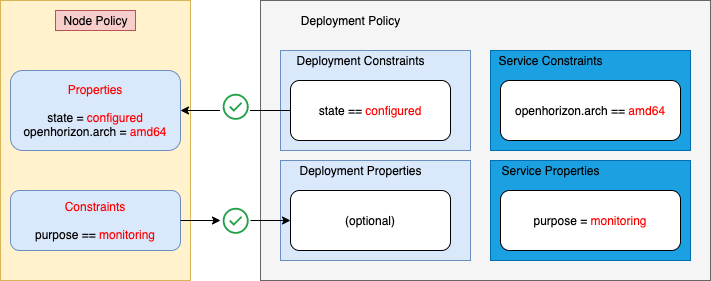
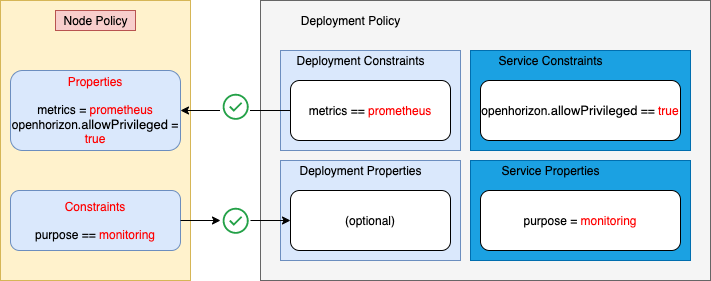
readme updates

diff --git a/README.md b/README.md
@@ -4,13 +4,16 @@ This is an example of creating and using an edge exporter service which scrapes 
 
 Based on [https://github.com/prometheus-community/json_exporter](https://github.com/prometheus-community/json_exporter)
 
-- [Preconditions for Using the JSON Exporter Service](#preconditions)
-- [Configuring the JSON Exporter Service](#configuring)
-- [Building and Publishing the JSON Exporter Service](#building)
-- [Using the JSON Exporter Service with Deployment Policy](#using-JSON-exporter)
+[1. Preconditions for Using the JSON Exporter Service](#preconditions)
+
+[2. Configuring the JSON Exporter Service](#configuring)
+
+[3. Building and Publishing the JSON Exporter Service](#building)
+
+[4. Using the JSON Exporter Service with Deployment Policy](#using-JSON-exporter)
 ![Prometheus architecture ](docs/prometheus-design.png)
 
-## <a id=preconditions></a> Preconditions for Using the JSON Exporter Service
+## <a id=preconditions></a> 1. Preconditions for Using the JSON Exporter Service
 
 If you have not done so already, you must do these steps before proceeding with the JSON Exporter service:
 
@@ -20,7 +23,7 @@ If you have not done so already, you must do these steps before proceeding with 
 
 2. Install the Horizon agent on your edge device and configure it to point to your Horizon exchange.
 
-3. As part of the infrasctucture installation process for IBM Edge Computing Manager a file called `agent-install.cfg` was created that contains the values for `HZN_ORG_ID` and the exchange and css url values. Locate this file and set those environment variables in your shell now:
+3. As part of the infrasctucture installation process for IBM Edge Application Manager a file called `agent-install.cfg` was created that contains the values for `HZN_ORG_ID` and the **exchange** and **css** url values. Locate this file and set those environment variables in your shell now:
 
 ```bash
 eval export $(cat agent-install.cfg)
@@ -43,15 +46,24 @@ hzn exchange node create -n $HZN_EXCHANGE_NODE_AUTH
 hzn exchange node confirm
 ```
 
-## <a id=configuring></a> Configuring the JSON Exporter Service
+## <a id=configuring></a> 2. Configuring the JSON Exporter Service
 
-You should complete these steps before proceeding with the JSON Exporter service:
+You should complete these steps before proceeding building the JSON Exporter service:
 
-1. List the event logs for the current or all registrations in the edge device with:
+1. Clone this git repository:
+
+```bash
+cd ~   # or wherever you want
+git clone git@github.com:jiportilla/edge_json_exporter.git
+cd ~/edge_json_exporter/
+```
+
+
+2. List the event logs for the current or all registrations in the edge device with:
 
 `hzn eventlog list -l`
 
-2. Verify is a valid JSON format, for example:
+3. Verify is a valid JSON format, for example:
 
 ```json
 {
@@ -76,7 +88,7 @@ You should complete these steps before proceeding with the JSON Exporter service
   }
 ```
 
-3. Update the provided `config.yml` file to select which JSON elements will be exposed by the JSON exporter service using JSONPath, for example for messages with **severity=info** use
+4. Optionally, update the provided `config.yml` file to define which JSON elements will be exposed by the JSON exporter service using **JSONPath**, for example for messages with **severity=info** use:
 
 ```
 - name: EventLog
@@ -93,13 +105,11 @@ You should complete these steps before proceeding with the JSON Exporter service
     timestamp: $.timestamp
 ```
 
-## <a id=building></a>Building and Publishing the JSON Exporter Service
+## <a id=building></a> 3. Building and Publishing the JSON Exporter Service
 
-1. Clone this git repository:
+1. Change directories to the local copy:
 
 ```bash
-cd ~   # or wherever you want
-git clone git@github.com:jiportilla/edge_json_exporter.git
 cd ~/edge_json_exporter/
 ```
 
@@ -115,15 +125,15 @@ eval $(hzn util configconv -f horizon/hzn.json)
 ```bash
 make build
 ```
-
-For example, when using the default values provided in this github repo [hnz.json](https://github.com/jiportilla/edge_json_exporter/blob/master/horizon/hzn.json) configuration file:
+For example, when using the default values provided in this repo [hnz.json](https://github.com/jiportilla/edge_json_exporter/blob/master/horizon/hzn.json) configuration file:
+	
 
 
 ```bash
 docker build --network="host" -t iportilla/jexporter_amd64:1.0.0 -f ./Dockerfile.amd64 .
 ```
 
-3. You are now ready to publish your edge service, so that it can be deployed to real edge nodes. Instruct Horizon to push your docker image to your registry and publish your service in the Horizon Exchange:
+3. You are now ready to publish your edge service, so that it can be deployed to edge devices. Instruct Horizon to push your docker image to your registry and publish your service in the Horizon Exchange using:
 
 ```bash
 hzn exchange service publish -f horizon/service.definition.json
@@ -132,14 +142,12 @@ hzn exchange service list
 
 See [Developing an edge service for devices](https://www-03preprod.ibm.com/support/knowledgecenter/SSFKVV_4.1/devices/developing/developing.html) for additional details.
 
-## <a id=using-JSON-exporter></a> Using the JSON Exporter Service with Deployment Policy
+## <a id=using-JSON-exporter></a> 4. Using the JSON Exporter Service with Deployment Policy
 
-The Horizon Policy mechanism offers an alternative to using Deployment Patterns. Policies provide much finer control over the deployment placement of edge services. Policies also provide a greater separation of concerns, allowing Edge Nodes owners, Service code developers, and Business owners to each independently articulate their own Policies. There are three types of Horizon Policies:
+The Horizon Policy mechanism offers an alternative to using deployment patterns. Policies provide much finer control over the deployment placement of edge services. Policies also provide a greater separation of concerns, allowing edge nodes owners, service code developers, and business owners to each independently articulate their own policies. There are three main types of Horizon Policies:
 
-
-
-1. Service Policy (may be applied to a published Service in the Exchange)
-2. Deployment Policy (which approximately corresponds to a Deployment Pattern)
+1. Service Policy (may be applied to a published service in the Exchange)
+2. Deployment Policy (which approximately corresponds to a deployment pattern)
 3. Node Policy (provided at registration time by the node owner)
 
 ### Service Policy
@@ -158,12 +166,12 @@ Like the other two Policy types, Service Policy contains a set of `properties` a
     }
   ],
   "constraints": [
-       "openhorizon.arch == amd64"
+       "openhorizon.allowPrivileged == true"
   ]
 }
 ```
 
-- Note this simple Service Policy provides one `property` **purpose=monitoring**, and it states one `constraint`. This JSON Exporter Service `constraint` is one that a Service developer might add, stating that their Service must only run on cpu architecture named **amd64**. During node registration the `openhorizon.arch` property will be set to **amd64**, so this JSON Exportert Service should be compatible with our Edge device.
+- Note this simple Service Policy provides one `property` **purpose=monitoring**, and it states one `constraint`. This JSON Exporter Service `constraint` is one that a Service developer might add, stating that their Service must only be deployed when **openhorizon.allowPrivileged** equals to **true**. After node registration the **openhorizon.allowPrivileged** property will be set to **true**, so this JSON Exportert Service should be compatible with our edge device.
 
 2. If needed, run the following commands to set the environment variables needed by the `service.policy.json` file in your shell:
 
@@ -184,10 +192,46 @@ hzn exchange service addpolicy -f policy/service.policy.json json.exporter_1.0.0
 
 ```
 
-4. View the pubished service policy attached to `json.exporter` edge service:
+4. View the pubished service policy attached to the **json.exporter** edge service:
 
 ```bash
 hzn exchange service listpolicy json.exporter_1.0.0_amd64
+```
+
+The output should look like:
+
+```json
+{
+  "properties": [
+    {
+      "name": "openhorizon.service.url",
+      "value": "json.exporter"
+    },
+    {
+      "name": "openhorizon.service.name",
+      "value": "json.exporter"
+    },
+    {
+      "name": "openhorizon.service.org",
+      "value": "mycluster"
+    },
+    {
+      "name": "openhorizon.service.version",
+      "value": "1.0.0"
+    },
+    {
+      "name": "openhorizon.service.arch",
+      "value": "amd64"
+    },
+    {
+      "name": "purpose",
+      "value": "monitoring"
+    }
+  ],
+  "constraints": [
+    "openhorizon.allowPrivileged == true"
+  ]
+}
 ```
 
 - Notice that Horizon has again automatically added some additional `properties` to your Policy. These generated property values can be used in `constraints` in Node Policies and Deployment Policies.
@@ -197,16 +241,16 @@ hzn exchange service listpolicy json.exporter_1.0.0_amd64
 
 ### Deployment Policy
 
-Deployment Policy (sometimes called Business Policy) is what ties together Edge Nodes, Published Services, and the Policies defined for each of those, making it roughly analogous to the Deployment Patterns you have previously worked with.
+Deployment policy (sometimes called Business Policy) is what ties together edge nodes, published services, and the policies defined for each of those, making it roughly analogous to the deployment patterns you have previously worked with.
 
-Deployment Policy, like the other two Policy types, contains a set of `properties` and a set of `constraints`, but it contains other things as well. For example, it explicitly identifies the Service it will cause to be deployed onto Edge Nodes if negotiation is successful, in addition to configuration variable values, performing the equivalent function to the `-f horizon/userinput.json` clause of a Deployment Pattern `hzn register ...` command. The Deployment Policy approach for configuration values is more powerful because this operation can be performed centrally (no need to connect directly to the Edge Node).
+DeploymentpPolicy, like the other two Policy types, contains a set of `properties` and a set of `constraints`, but it contains other things as well. For example, it explicitly identifies the Service it will cause to be deployed onto edge nodes if negotiation is successful, in addition to configuration variable values, performing the equivalent function to the `-f horizon/userinput.json` clause of a Deployment Pattern `hzn register ...` command. The Deployment Policy approach for configuration values is more powerful because this operation can be performed centrally (no need to connect directly to the edge node).
 
 1. Below is the file provided in  `policy/deployment.policy.json` with this example:
 
 ```json
 {
   "label": "Deployment policy for $SERVICE_NAME",
-  "description": "A super-simple JSON Exporter Service demo",
+  "description": "A super-simple JSON Exporter Service deployment policy",
   "service": {
     "name": "$SERVICE_NAME",
     "org": "$HZN_ORG_ID",
@@ -220,7 +264,7 @@ Deployment Policy, like the other two Policy types, contains a set of `propertie
   },
   "properties": [],
   "constraints": [
-        "state == configured"
+        "metrics == prometheus"
   ],
   "userInput": [
     {
@@ -234,7 +278,7 @@ Deployment Policy, like the other two Policy types, contains a set of `propertie
 }
 ```
 
-- This simple example of a Deployment Policy provides one `constraint` **state** that needs to be satisfied by one of the `properties` set in the `node.policy.json` file, so this Deployment Policy should successfully deploy our JSON Exporter Service onto the Edge device.
+- This simple example of a Deployment policy provides one `constraint` **metrics** that needs to be satisfied by one of the `properties` set in the `node.policy.json` file, so this Deployment Policy should successfully deploy our JSON Exporter Service onto the edge device.
 
 - At the end, the userInput section has the same purpose as the `horizon/userinput.json` files provided for other examples if the given services requires them. In this case the example service defines does not have configuration variables.
 
@@ -247,7 +291,7 @@ eval $(hzn util configconv -f horizon/hzn.json)
 optional: eval export $(cat agent-install.cfg)
 ```
 
-3. Publish this Deployment Policy to the Exchange to deploy the `json.exporter` service to the Edge device (give it a memorable name):
+3. Publish this Deployment policy to the Exchange to deploy the `json.exporter` service to the edge device (give it a memorable name):
 
 
 **todo: update Makefile **
@@ -257,18 +301,47 @@ make publish-business-policy
 ```
 
 For example:
+
 ```bash
-hzn exchange deployment addpolicy -f policy/deployment.policy.json json.exporter.dp
+hzn exchange deployment addpolicy -f policy/deployment.policy.json edge-monitoring
 
 ```
 
 4. Verify the Deployment policy:
 
 ```bash
-hzn exchange deployment listpolicy json.exporter.dp
+hzn exchange deployment listpolicy edge-monitoring
 ```
 
 - The results should look very similar to your original `deployment.policy.json` file, except that `owner`, `created`, and `lastUpdated` and a few other fields have been added.
+
+```json
+{
+  "mycluster/edge-monitoring": {
+    "owner": "mycluster/ivan",
+    "label": "edge-monitoring",
+    "description": "with JSON Exporter and prometheus-operator",
+    "service": {
+      "name": "json.exporter",
+      "org": "mycluster",
+      "arch": "amd64",
+      "serviceVersions": [
+        {
+          "version": "1.0.0",
+          "priority": {},
+          "upgradePolicy": {}
+        }
+      ],
+      "nodeHealth": {}
+    },
+    "constraints": [
+      "metrics == prometheus"
+    ],
+    "created": "2020-11-17T16:38:49.663Z[UTC]",
+    "lastUpdated": "2020-11-17T16:38:49.663Z[UTC]"
+  }
+}
+```
 
 - Now that you have set up the Deployment Policy and the published Service policy is in the exchange, we can move on to the final step of defining a Policy for your Edge Node to tie them all together and cause software to be automatically deployed on your edge device.
 
@@ -283,8 +356,8 @@ hzn exchange deployment listpolicy json.exporter.dp
 {
   "properties": [
      {
-      "name": "state",
-      "value": "configured"
+      "name": "metrics",
+      "value": "prometheus"
     },
     {
       "name": "openhorizon.allowPrivileged",
